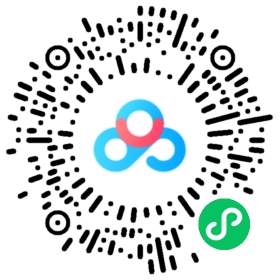
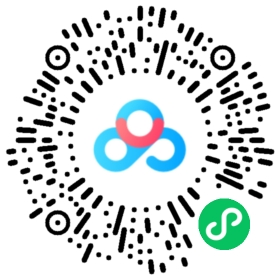
[DOCS]: update readme

diff --git a/README.md b/README.md
@@ -11,8 +11,8 @@
     - [一致性测试](#一致性测试)
 ## 以可执行文件的方式运行
 * 百度网盘链接
-链接: https://pan.baidu.com/s/11xFSvd3OWJKPL4gp_AWpuQ?pwd=bch9 
-提取码: bch9
+链接: https://pan.baidu.com/s/1AQUx3Yu6CSOhGkGrG-yNRw?pwd=y5bs
+提取码: y5bs
 * 百度网盘二维码
 <img src="./imgs/QR.png">
 
